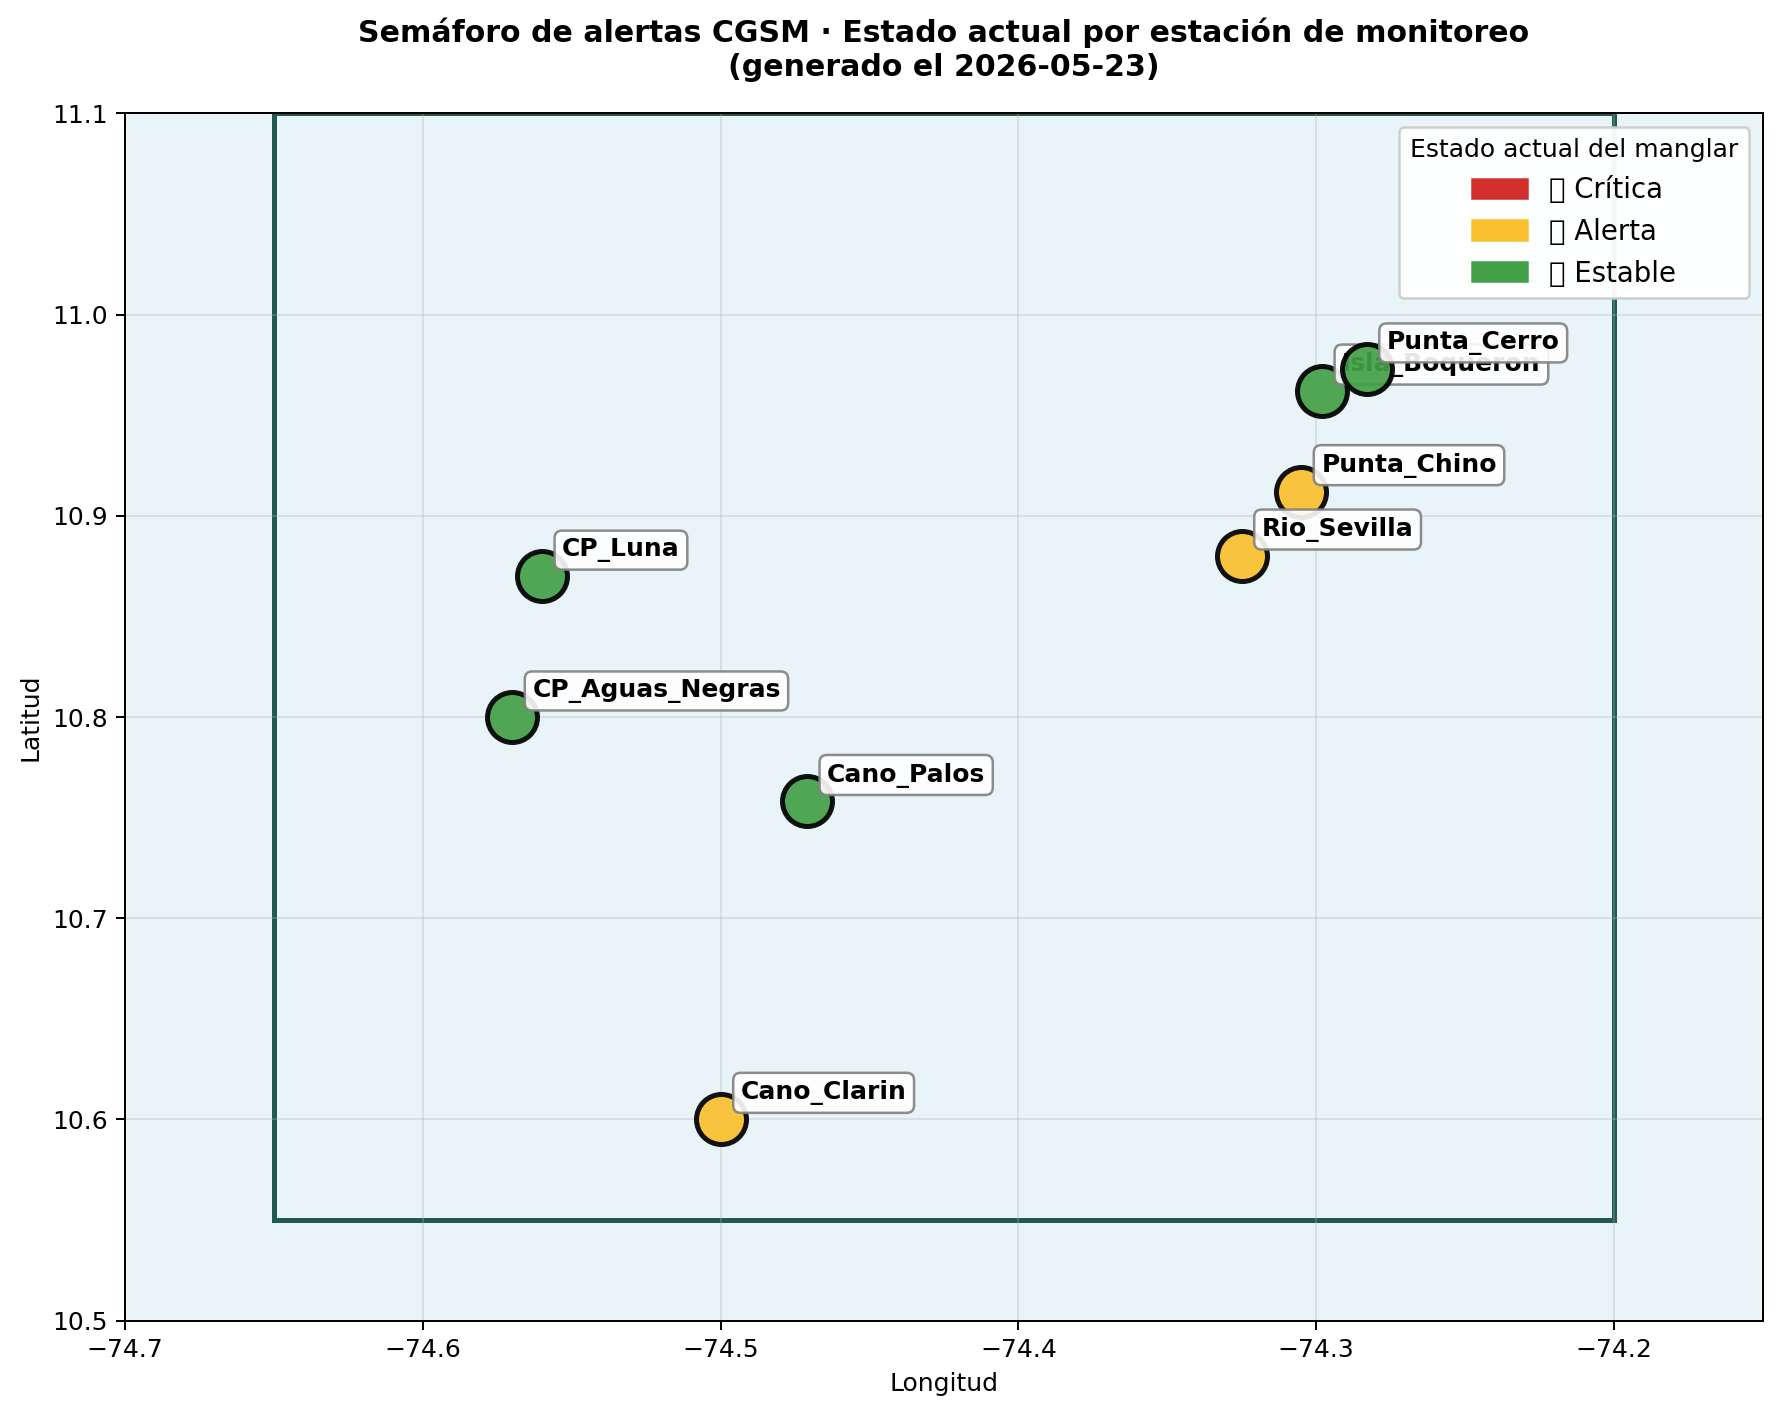
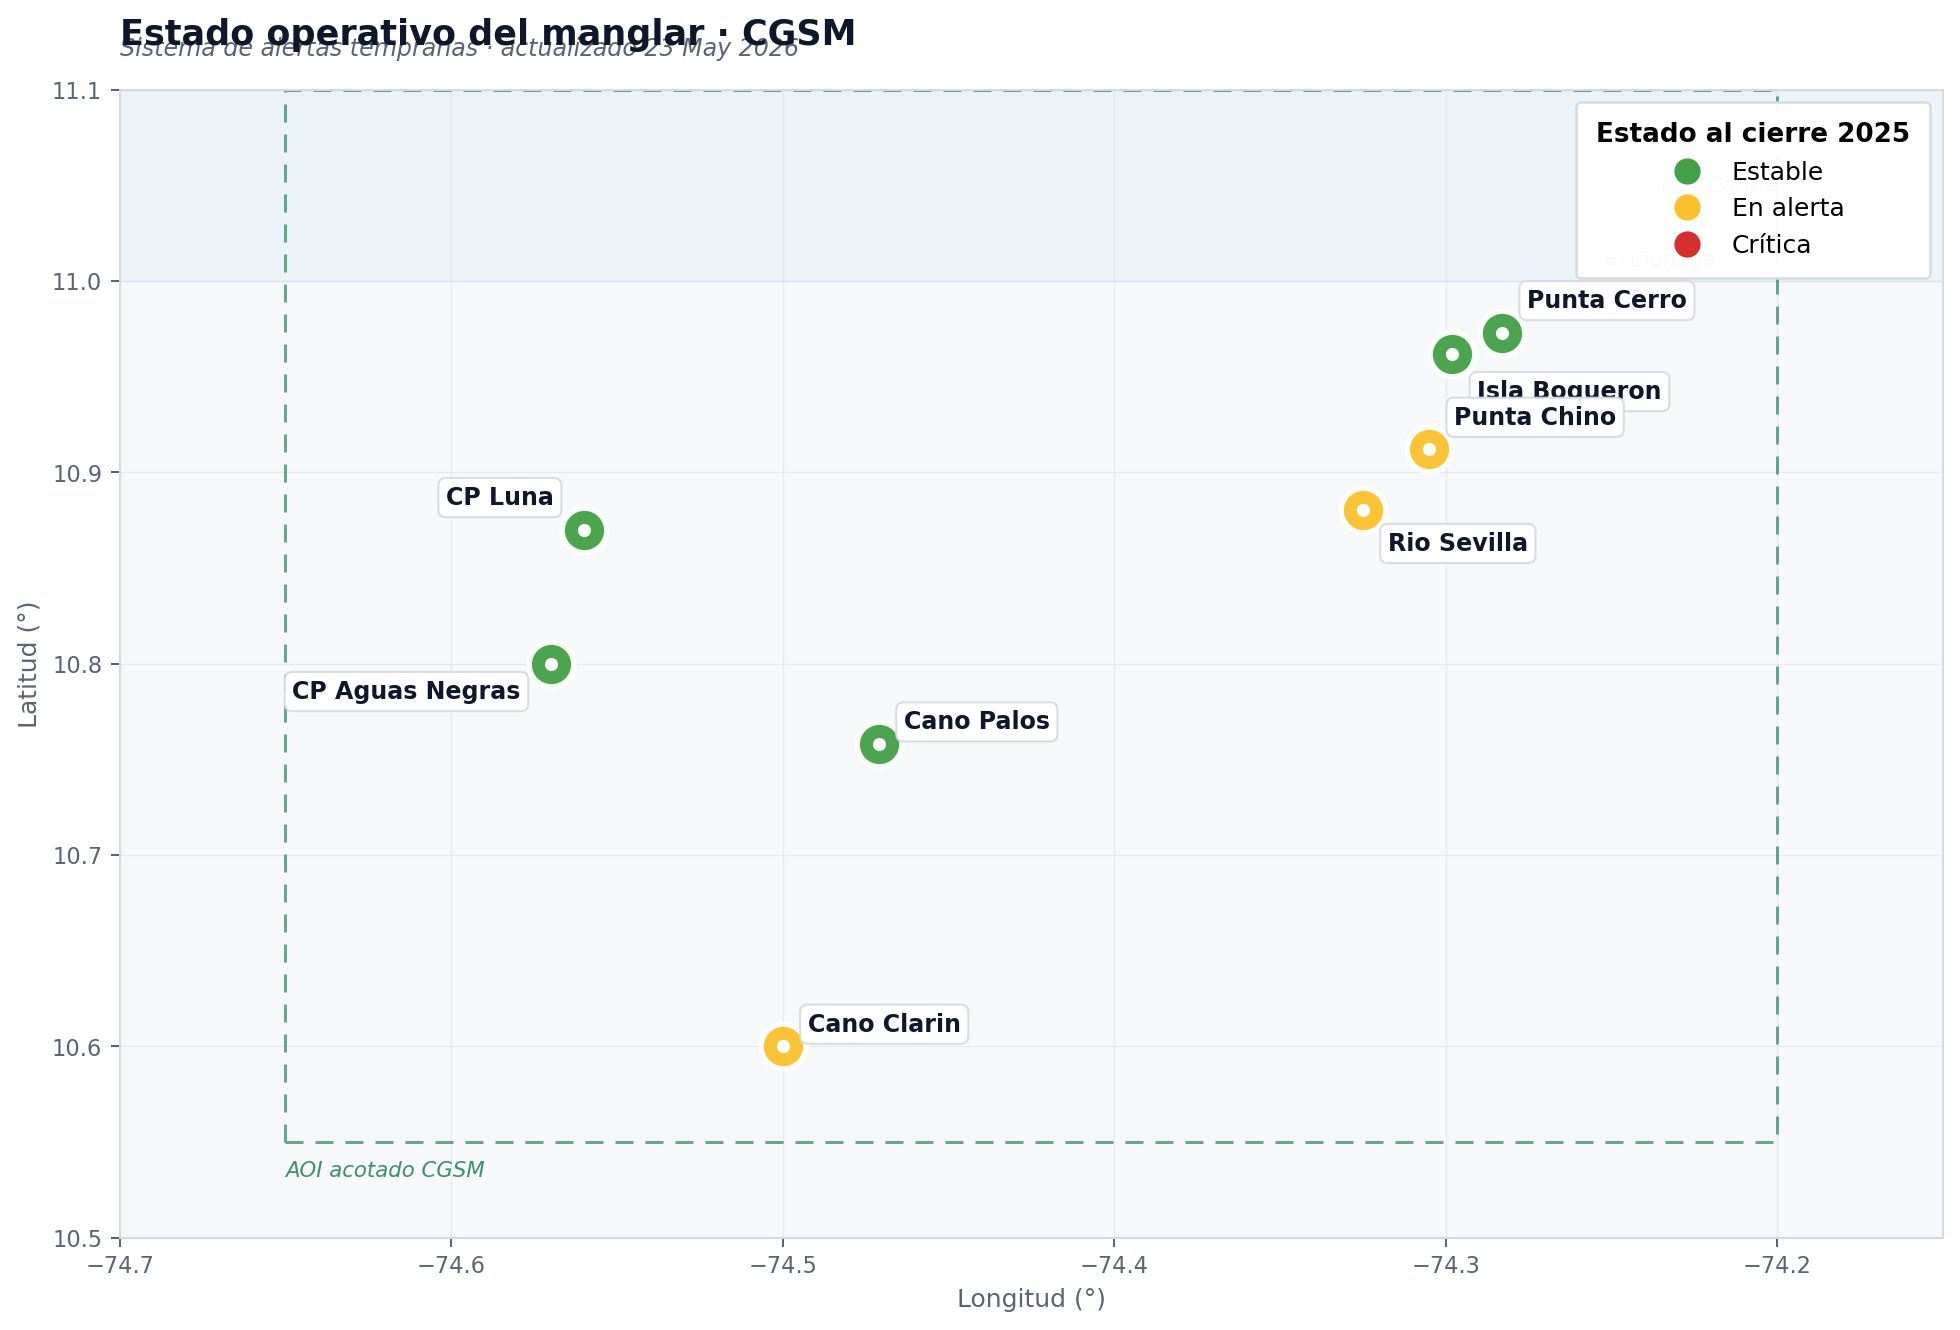
Redesign alerts semaforo plot: clean palette, fixed label positions, real-circle legend

diff --git a/src/python/alertas_manglar.py b/src/python/alertas_manglar.py
@@ -173,49 +173,121 @@ def buscar_coords(nombre):
 colores = {'critica': '#d32f2f', 'alerta': '#fbc02d',
            'estable': '#43a047', 'sin_datos': '#9e9e9e'}
 
-fig, ax = plt.subplots(figsize=(10, 8))
-ax.set_facecolor('#e8f4f8')
-
-# Dibujar bbox del AOI
+# ---- Estilo y figura ----
 from matplotlib.patches import Rectangle
-ax.add_patch(Rectangle((-74.65, 10.55), 0.45, 0.55,
-                       fill=False, edgecolor='#1f5a4b', lw=2,
-                       label='AOI acotado CGSM'))
+from matplotlib.lines import Line2D
 
-# Plotear estaciones
+plt.rcParams['font.family'] = 'sans-serif'
+plt.rcParams['axes.edgecolor'] = '#b0b8c0'
+plt.rcParams['axes.linewidth'] = 0.8
+
+fig, ax = plt.subplots(figsize=(11, 7.5))
+fig.patch.set_facecolor('white')
+ax.set_facecolor('#f6f8fa')
+
+# ---- Referencias geográficas mínimas (costa Caribe colombiana) ----
+# Costa aproximada como sombreado azul muy suave al norte
+ax.axhspan(11.00, 11.10, alpha=0.4, color='#dcecf5', zorder=0)
+ax.text(-74.20, 11.05, 'Mar Caribe', fontsize=8.5, color='#5b7a8c',
+        style='italic', ha='right', va='center', zorder=1)
+
+# Ciudades de referencia
+cities = {
+    'Barranquilla': (-74.78, 10.96),
+    'Santa Marta':  (-74.21, 11.24),  # fuera de plot pero la dejamos para flecha
+    'Ciénaga':      (-74.25, 11.01),
+}
+for name, (lon, lat) in cities.items():
+    if -74.70 < lon < -74.15 and 10.50 < lat < 11.10:
+        ax.plot(lon, lat, marker='s', color='#9aa4b2', markersize=5,
+                markeredgecolor='white', markeredgewidth=0.8, zorder=2)
+        ax.annotate(name, xy=(lon, lat), xytext=(7, -2),
+                    textcoords='offset points', fontsize=8.5,
+                    color='#5b6472', style='italic')
+
+# ---- Bbox del AOI: línea punteada sutil, sin label ----
+ax.add_patch(Rectangle((-74.65, 10.55), 0.45, 0.55,
+                       fill=False, edgecolor='#1f7a52', lw=1.2,
+                       linestyle=(0, (6, 4)), alpha=0.65, zorder=2))
+ax.text(-74.65, 10.55 - 0.018, 'AOI acotado CGSM',
+        fontsize=8.5, color='#1f7a52', style='italic', alpha=0.85)
+
+# ---- Offsets de label por estación para evitar solapamientos ----
+# Punta_Cerro (norte) ↔ Isla_Boqueron (justo al lado, sur-oeste) → separar
+# Punta_Chino ↔ Rio_Sevilla → separar verticalmente
+LABEL_OFFSET = {
+    'Punta_Cerro':     (10,  10),   # arriba-derecha
+    'Isla_Boqueron':   (10, -18),   # abajo-derecha (más alejado)
+    'Punta_Chino':     (10,  10),   # arriba-derecha
+    'Rio_Sevilla':     (10, -16),   # abajo-derecha
+    'Cano_Palos':      (10,   6),
+    'CP_Luna':         (-12,  10),  # a la izquierda
+    'CP_Aguas_Negras': (-12, -14),  # a la izquierda-abajo
+    'Cano_Clarin':     (10,   6),
+}
+
+# ---- Plotear estaciones ----
 for _, row in df_alertas.iterrows():
     coords = buscar_coords(row['estacion'])
     if coords is None:
         continue
     lon, lat = coords
     color = colores.get(row['estado'], '#9e9e9e')
-    ax.scatter(lon, lat, s=400, c=color, edgecolor='black', lw=2,
-               zorder=3, alpha=0.92)
-    ax.annotate(row['estacion'], xy=(lon, lat), xytext=(8, 8),
-                textcoords='offset points', fontsize=10, fontweight='bold',
-                bbox=dict(facecolor='white', alpha=0.9, edgecolor='gray',
-                          boxstyle='round,pad=0.3'))
+    ax.scatter(lon, lat, s=320, c=color, edgecolor='white', lw=2.2,
+               zorder=4, alpha=0.95)
+    # Punto interior pequeño para "anclar" el círculo grande
+    ax.scatter(lon, lat, s=18, c='white', zorder=5)
 
-# Leyenda
-legend_patches = [
-    mpatches.Patch(color=colores['critica'], label='🔴 Crítica'),
-    mpatches.Patch(color=colores['alerta'], label='🟡 Alerta'),
-    mpatches.Patch(color=colores['estable'], label='🟢 Estable'),
+    label = row['estacion'].replace('_', ' ')
+    dx, dy = LABEL_OFFSET.get(row['estacion'], (10, 8))
+    ha = 'right' if dx < 0 else 'left'
+    ax.annotate(label, xy=(lon, lat), xytext=(dx, dy),
+                textcoords='offset points', fontsize=9.5, fontweight=600,
+                ha=ha, color='#0f172a', zorder=6,
+                bbox=dict(facecolor='white', alpha=0.92,
+                          edgecolor='#d4dae0', boxstyle='round,pad=0.32',
+                          linewidth=0.8))
+
+# ---- Leyenda con círculos reales (sin emojis) ----
+estado_orden = [('estable',  'Estable'),
+                ('alerta',   'En alerta'),
+                ('critica',  'Crítica')]
+legend_handles = [
+    Line2D([0], [0], marker='o', color='w', markerfacecolor=colores[k],
+           markeredgecolor='white', markeredgewidth=1.5,
+           markersize=12, label=lbl)
+    for k, lbl in estado_orden
 ]
-ax.legend(handles=legend_patches, loc='upper right', fontsize=11,
-          framealpha=0.95, title='Estado actual del manglar')
+leg = ax.legend(handles=legend_handles, loc='upper right',
+                fontsize=10, framealpha=0.97,
+                title='Estado al cierre 2025',
+                title_fontsize=10.5, borderpad=0.8,
+                edgecolor='#d4dae0', facecolor='white')
+leg.get_title().set_fontweight('600')
 
+# ---- Ejes y título ----
 ax.set_xlim(-74.70, -74.15)
 ax.set_ylim(10.50, 11.10)
-ax.set_xlabel('Longitud')
-ax.set_ylabel('Latitud')
-ax.set_title('Semáforo de alertas CGSM · Estado actual por estación de monitoreo\n'
-             f'(generado el {datetime.now().strftime("%Y-%m-%d")})',
-             fontsize=12, fontweight='bold', pad=15)
-ax.grid(True, alpha=0.3)
+ax.set_xlabel('Longitud (°)', fontsize=10, color='#5b6472')
+ax.set_ylabel('Latitud (°)', fontsize=10, color='#5b6472')
+ax.tick_params(colors='#5b6472', labelsize=9)
+for spine in ax.spines.values():
+    spine.set_color('#d4dae0')
+
+ax.set_title('Estado operativo del manglar · CGSM',
+             fontsize=14, fontweight=700, color='#0f172a',
+             loc='left', pad=18)
+# Subtítulo a la izquierda del título
+ax.text(0, 1.025, f'Sistema de alertas tempranas · actualizado {datetime.now().strftime("%d %b %Y")}',
+        transform=ax.transAxes, fontsize=9.5, color='#5b6472',
+        ha='left', va='bottom', style='italic')
+
+ax.grid(True, alpha=0.35, linestyle='-', linewidth=0.5, color='#c8d0d8')
+ax.set_axisbelow(True)
 
 plt.tight_layout()
-plt.savefig(FIGURES / 'alertas_semaforo.png', dpi=180, bbox_inches='tight')
+plt.savefig(FIGURES / 'alertas_semaforo.png', dpi=180,
+            bbox_inches='tight', facecolor='white')
 plt.close()
 print(f'✓ {FIGURES / "alertas_semaforo.png"}')
 
